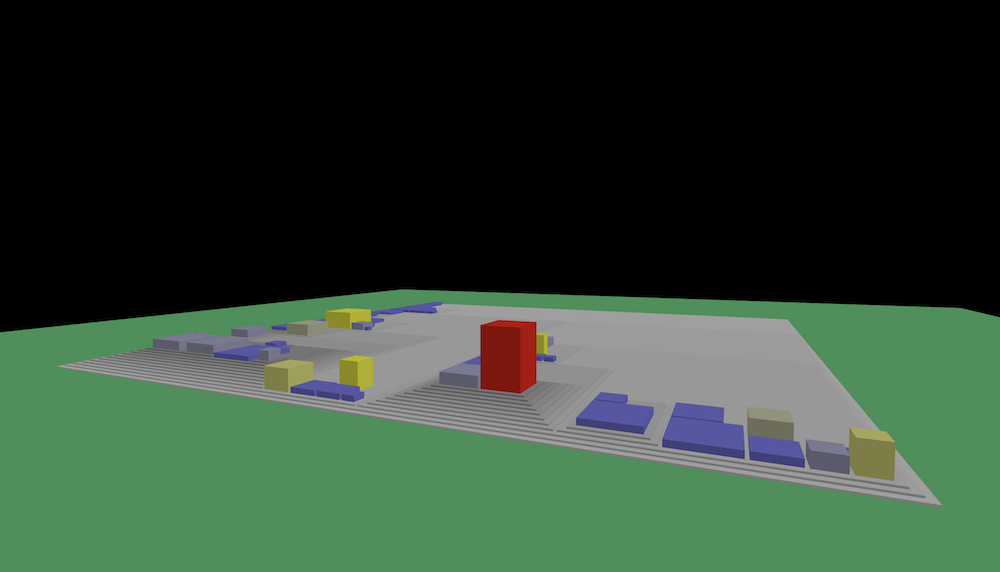
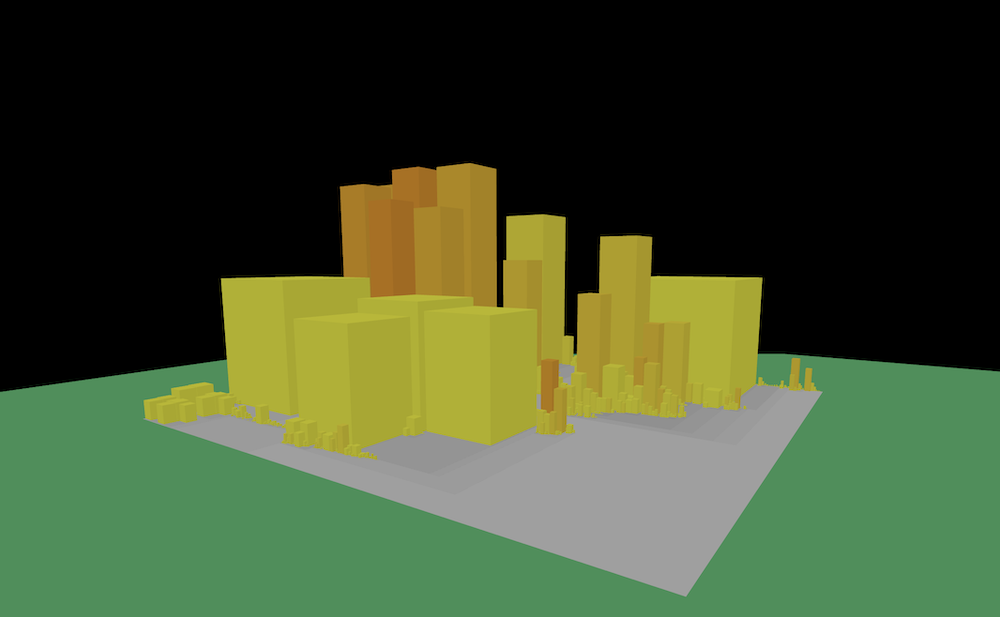
readme and image

Changed region(s): [[0.0, 0.2675, 1.0, 0.9808]]

diff --git a/public/city_visualization.js b/public/city_visualization.js
@@ -94,9 +94,8 @@ function csvToNestedStructure(csvString) {
 const FOUNDATION_HEIGHT = 5;
 const PADDING = 20; 
 const ITEM_SPACING = 10; 
-// HEIGHT_FACTOR is not used if building dimensions are based on 'loc' for cubes.
-const HEIGHT_FACTOR = 30; 
-const MIN_VISIBLE_BUILDING_SIDE = 2.5; // Min side length for a building cube if loc is 0 or too small
+const POWER_CONSTANT_P = 0.2;
+const MIN_VISIBLE_BUILDING_DIMENSION = 1.0; 
 const MIN_LAYOUT_DIMENSION = 5; 
 
 const BASE_FOUNDATION_COLOR = new THREE.Color(0xdddddd); 
@@ -108,6 +107,51 @@ let scene, camera, renderer, controls;
 let raycaster, mouse, tooltipElement, intersectedObject = null;
 const pickableObjects = []; 
 let loadingMessageElement;
+
+function calculateHeightPower(x, k, p) {
+  if (k < 0 && p % 1 !== 0) {
+    console.warn("Calculating non-integer power of negative k results in Complex number. Returning NaN.");
+    return NaN;
+  }
+   if (x < 0) {
+      console.warn("Input x is negative. Result may be negative or NaN.");
+      x = 0;
+  }
+  const kValue = (k < 0 && p % 2 === 0) ? Math.abs(k) : k; 
+  return x * Math.pow(kValue, p);
+}
+
+function calculateWidthPower(x, k, p) {
+  const power = -p / 2;
+   if (k < 0 && power % 1 !== 0) {
+    console.warn("Calculating non-integer power of negative k results in Complex number. Returning NaN.");
+    return NaN;
+  }
+   if (x < 0) {
+      console.warn("Input x is negative. Result may be negative or NaN.");
+      x = 0;
+  }
+  const kValue = (k < 0 && power % 2 === 0) ? Math.abs(k) : k;
+  return x * Math.pow(kValue, power);
+}
+
+function calculateLengthPower(x, k, p) {
+    const power = -p / 2;
+   if (k < 0 && power % 1 !== 0) {
+    console.warn("Calculating non-integer power of negative k results in Complex number. Returning NaN.");
+    return NaN;
+  }
+   if (x < 0) {
+      console.warn("Input x is negative. Result may be negative or NaN.");
+      x = 0;
+  }
+  const kValue = (k < 0 && power % 2 === 0) ? Math.abs(k) : k;
+  // Ensure kValue for division is not zero if original k was zero
+  const divisorK = kValue === 0 ? ( (power < 0) ? Number.EPSILON : 0 ) : kValue;
+  if (divisorK === 0 && power < 0) return x / Number.EPSILON; // Avoid division by zero, make it very large
+  return x * Math.pow(divisorK, power);
+}
+
 
 function collectAllFiles(node, fileList) {
     if (!node) return;
@@ -127,24 +171,26 @@ function preprocessFileData(rootNode) {
     const allFiles = [];
     collectAllFiles(rootNode, allFiles);
 
-    let largestCountValue = 0;
+    let maxCountFound = 0; 
+
     if (allFiles.length > 0) {
-        largestCountValue = allFiles.reduce((max, file) => Math.max(max, file.count || 0), 0);
+        maxCountFound = allFiles.reduce((max, file) => Math.max(max, file.count || 0), 0);
     }
-    const effectiveLargestCount = largestCountValue === 0 ? 1 : largestCountValue;
+    
+    const effectiveDenominatorForHeat = maxCountFound === 0 ? 1 : maxCountFound;
 
     allFiles.forEach(file => {
-        file.heat = (file.count || 0) / effectiveLargestCount;
-        // 'loc' from CSV is used directly. Ensure it's a number.
+        file.heat = (file.count || 0) / effectiveDenominatorForHeat;
         file.loc = file.loc || 0; 
+        file.count = file.count || 0; 
     });
 }
 
 function getHeatColor(heatInput) {
     const heat = (typeof heatInput === 'number' && !isNaN(heatInput)) ? heatInput : 0;
     const color = new THREE.Color();
-    const yellow = new THREE.Color(0xffff00); // Heat = 0
-    const red = new THREE.Color(0xff0000);     // Heat = 1
+    const yellow = new THREE.Color(0xffff00); 
+    const red = new THREE.Color(0xff0000);     
 
     if (heat <= 0) return yellow; 
     if (heat >= 1) return red;   
@@ -166,16 +212,32 @@ function calculateLayout(node) {
         childrenToProcess.forEach(child => {
             calculateLayout(child); 
             const isChildDir = child.isDirectory;
-            let childW, childD;
+            let childW, childD, childH;
 
             if (isChildDir) {
                 childW = child.calculatedOuterWidth;
                 childD = child.calculatedOuterDepth;
             } else { // It's a File
                 child.loc = child.loc || 0; 
-                childW = child.loc > 0 ? child.loc : MIN_LAYOUT_DIMENSION;
-                childD = child.loc > 0 ? child.loc : MIN_LAYOUT_DIMENSION;
-                child.buildingHeight = child.loc > 0 ? child.loc : MIN_VISIBLE_BUILDING_SIDE; // Height is 'loc' for a cube
+                child.count = child.count === undefined ? 1 : Math.max(child.count, Number.EPSILON); // Ensure count is at least a tiny positive for power calcs
+
+                // Use new dimension calculation functions
+                childW = calculateWidthPower(child.loc, child.count, POWER_CONSTANT_P);
+                childD = calculateLengthPower(child.loc, child.count, POWER_CONSTANT_P);
+                childH = calculateHeightPower(child.loc, child.count, POWER_CONSTANT_P);
+                
+                // Handle NaN results from power functions (e.g., if k was negative and p non-integer)
+                if (isNaN(childW)) childW = MIN_LAYOUT_DIMENSION;
+                if (isNaN(childD)) childD = MIN_LAYOUT_DIMENSION;
+                if (isNaN(childH)) childH = MIN_VISIBLE_BUILDING_DIMENSION;
+
+
+                // Apply minimums for layout footprint
+                childW = Math.max(childW, MIN_LAYOUT_DIMENSION);
+                childD = Math.max(childD, MIN_LAYOUT_DIMENSION);
+                child.buildingHeight = Math.max(childH, MIN_VISIBLE_BUILDING_DIMENSION);
+                child.buildingWidth = childW; // Store for createThreeObjects
+                child.buildingDepth = childD; // Store for createThreeObjects
             }
             layoutItems.push({ node: child, w: childW, d: childD }); 
         });
@@ -255,11 +317,22 @@ function calculateLayout(node) {
 
     } else { // It's a File
         node.loc = node.loc || 0; 
+        node.count = node.count === undefined ? 1 : Math.max(node.count, Number.EPSILON);
+
         if (node.buildingHeight === undefined) { 
-             node.buildingHeight = node.loc > 0 ? node.loc : MIN_VISIBLE_BUILDING_SIDE;
+             const height = calculateHeightPower(node.loc, node.count, POWER_CONSTANT_P);
+             node.buildingHeight = Math.max(isNaN(height) ? MIN_VISIBLE_BUILDING_DIMENSION : height, MIN_VISIBLE_BUILDING_DIMENSION);
         }
-        const w = node.loc > 0 ? node.loc : MIN_LAYOUT_DIMENSION;
-        const d = node.loc > 0 ? node.loc : MIN_LAYOUT_DIMENSION;
+        const wRaw = calculateWidthPower(node.loc, node.count, POWER_CONSTANT_P);
+        const dRaw = calculateLengthPower(node.loc, node.count, POWER_CONSTANT_P);
+
+        const w = Math.max(isNaN(wRaw) ? MIN_LAYOUT_DIMENSION : wRaw, MIN_LAYOUT_DIMENSION);
+        const d = Math.max(isNaN(dRaw) ? MIN_LAYOUT_DIMENSION : dRaw, MIN_LAYOUT_DIMENSION);
+        
+        // Store these for createThreeObjects
+        node.buildingWidth = w; 
+        node.buildingDepth = d;
+
         return { width: w, depth: d };
     }
 }
@@ -311,11 +384,13 @@ function createThreeObjects(node, parentThreeGroup, baseCenterPosition, depthLev
 
     } else { // It's a File (Building)
         node.loc = node.loc || 0; 
-        const sideLength = node.loc > 0 ? node.loc : MIN_VISIBLE_BUILDING_SIDE;
+        node.count = node.count === undefined ? 1 : Math.max(node.count, Number.EPSILON);
 
-        const buildingWidth = sideLength;
-        const buildingDepth = sideLength;
-        const buildingHeight = sideLength; // For a cube, height is same as sideLength (loc)
+        // Retrieve dimensions calculated in calculateLayout
+        const buildingWidth = Math.max(node.buildingWidth || MIN_VISIBLE_BUILDING_DIMENSION, MIN_VISIBLE_BUILDING_DIMENSION);
+        const buildingDepth = Math.max(node.buildingDepth || MIN_VISIBLE_BUILDING_DIMENSION, MIN_VISIBLE_BUILDING_DIMENSION);
+        const buildingHeight = Math.max(node.buildingHeight || MIN_VISIBLE_BUILDING_DIMENSION, MIN_VISIBLE_BUILDING_DIMENSION);
+
 
         const buildingColor = getHeatColor(node.heat); 
         const buildingMaterial = new THREE.MeshLambertMaterial({ color: buildingColor });
@@ -357,7 +432,7 @@ function updateTooltip() {
             if (intersectedObject.userData && intersectedObject.userData.nodeData) {
                 const nodeData = intersectedObject.userData.nodeData;
                 const type = intersectedObject.userData.type;
-                let locText = nodeData.loc !== undefined ? `${nodeData.loc} Lines (Side Length)` : 'N/A Lines'; // Clarified loc usage
+                let locText = nodeData.loc !== undefined ? `${nodeData.loc} Lines of Code` : 'N/A Lines of Code'; 
                 let countText = (nodeData.count || 0) !== undefined ? `${nodeData.count || 0} Commits` : 'N/A Commits';
                 let fullPathText = nodeData.fullPath;
 
@@ -397,7 +472,7 @@ function initScene(currentNestedStructure) {
     preprocessFileData(currentNestedStructure); 
     
     scene = new THREE.Scene();
-    scene.background = new THREE.Color(0xabcdef); 
+    // scene.background = new THREE.Color(0xabcdef); 
 
     const aspect = window.innerWidth / window.innerHeight;
     camera = new THREE.PerspectiveCamera(75, aspect, 5, 60000); 
@@ -488,11 +563,10 @@ async function loadDataAndInitialize() {
     try {
         const response = await fetch('data.csv'); 
         if (!response.ok) {
-            throw new Error(`HTTP error! status: ${response.status} - Could not load data.csv. Make sure it's in the same directory and you are using a web server.`);
+            throw new Error(`HTTP error! status: ${response.status} - Could not load data.csv.`);
         }
         const csvString = await response.text();
         const dynamicallyGeneratedNestedStructure = csvToNestedStructure(csvString);
-        
         initScene(dynamicallyGeneratedNestedStructure);
 
     } catch (error) {
@@ -505,7 +579,7 @@ async function loadDataAndInitialize() {
             canvasElement.outerHTML = `<div style="padding: 20px; color: red; text-align: center; font-family: Arial, sans-serif;">
                                          <h2>Error Initializing Visualization</h2>
                                          <p>${error.message}</p>
-                                         <p>Please check the console for more details and ensure 'data.csv' is correctly formatted and accessible.</p>
+                                         <p>Please check the console for more details and ensure 'data.csv' is correctly formatted and accessible if using external CSV.</p>
                                        </div>`;
         }
     }

diff --git a/README.md b/README.md
@@ -6,9 +6,14 @@ City Blocks is a 3D visualization of code churn and size in a Git repo.
 
 ## Legend
 - Grey foundations are parent directories. It darkens progressively as it stacks up.
-- Area of the building or block is relative to the lines of code
-- Height is relative to the number of commits made to that file
-- Color of the building i.e heat is based on churn % compared to the file with highest churn (blue > yellow > red)
+- Volume of the building or block is relative to the lines of code
+- Height is factored with number of git commits on a file, but volume will always be loc cubed.
+- Color of the building i.e heat is based on churn % compared to max churn (yellow > amber > red)
+
+## Prerequisites
+1. NodeJS - (tested with v20.11.1)
+2. Git - (tested with 2.33.1)
+3. Decent HW - (Tested with MacBook Air M1)
 
 ## How to use (only tested in Mac)
 
@@ -20,3 +25,4 @@ City Blocks is a 3D visualization of code churn and size in a Git repo.
 6. run `git_repo_stats.sh <<git-clone-url>>`. This updates the data.csv for new repo
 7. now refresh browser
 8. refine output by excluding unncessary files in `.stat_exclude` file. follow glob pattern
+9. If the height is too extreme try adjusting `POWER_CONSTANT_P` by a few decimal points.
